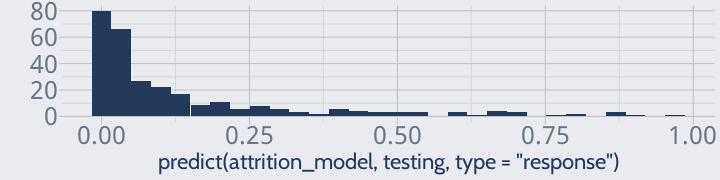
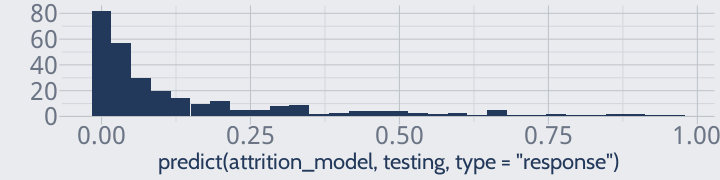
Rebuild site

diff --git a/_site/slides/week_4_slides.html b/_site/slides/week_4_slides.html
@@ -6,7 +6,7 @@
     <meta name="author" content="Mike Mahoney" />
     <meta name="date" content="2021-09-22" />
     <script src="libs/header-attrs/header-attrs.js"></script>
-    <script type="application/json" id="xaringanExtra-editable-docid">{"id":"x45678de991b4d339d512b2116afb2d3","expires":1}</script>
+    <script type="application/json" id="xaringanExtra-editable-docid">{"id":"f8165365cc4e47e5a48896ed0d87c4ec","expires":1}</script>
     <script src="libs/himalaya/himalaya.js"></script>
     <script src="libs/js-cookie/js.cookie.js"></script>
     <link href="libs/editable/editable.css" rel="stylesheet" />
@@ -120,7 +120,7 @@ frame instead:
 
 ```r
 attrition_model &lt;- glm(Attrition ~ ., 
-                       attrition_cleaned, 
+                       training, 
                        family = "binomial")
 ```
 
@@ -156,28 +156,28 @@ attrition_confusion
 ## 
 ##           Reference
 ## Prediction   0   1
-##          0 254  18
-##          1   8  15
-##                                           
-##                Accuracy : 0.9119          
-##                  95% CI : (0.8735, 0.9416)
-##     No Information Rate : 0.8881          
-##     P-Value [Acc &gt; NIR] : 0.11251         
-##                                           
-##                   Kappa : 0.4887          
-##                                           
-##  Mcnemar's Test P-Value : 0.07756         
-##                                           
-##             Sensitivity : 0.45455         
-##             Specificity : 0.96947         
-##          Pos Pred Value : 0.65217         
-##          Neg Pred Value : 0.93382         
-##              Prevalence : 0.11186         
-##          Detection Rate : 0.05085         
-##    Detection Prevalence : 0.07797         
-##       Balanced Accuracy : 0.71201         
-##                                           
-##        'Positive' Class : 1               
+##          0 250  18
+##          1  12  15
+##                                          
+##                Accuracy : 0.8983         
+##                  95% CI : (0.858, 0.9303)
+##     No Information Rate : 0.8881         
+##     P-Value [Acc &gt; NIR] : 0.3290         
+##                                          
+##                   Kappa : 0.444          
+##                                          
+##  Mcnemar's Test P-Value : 0.3613         
+##                                          
+##             Sensitivity : 0.45455        
+##             Specificity : 0.95420        
+##          Pos Pred Value : 0.55556        
+##          Neg Pred Value : 0.93284        
+##              Prevalence : 0.11186        
+##          Detection Rate : 0.05085        
+##    Detection Prevalence : 0.09153        
+##       Balanced Accuracy : 0.70437        
+##                                          
+##        'Positive' Class : 1              
 ## 
 ```
 
@@ -208,7 +208,7 @@ auc(attrition_roc)
 ```
 
 ```
-## Area under the curve: 0.8958
+## Area under the curve: 0.8547
 ```
 
 ---
